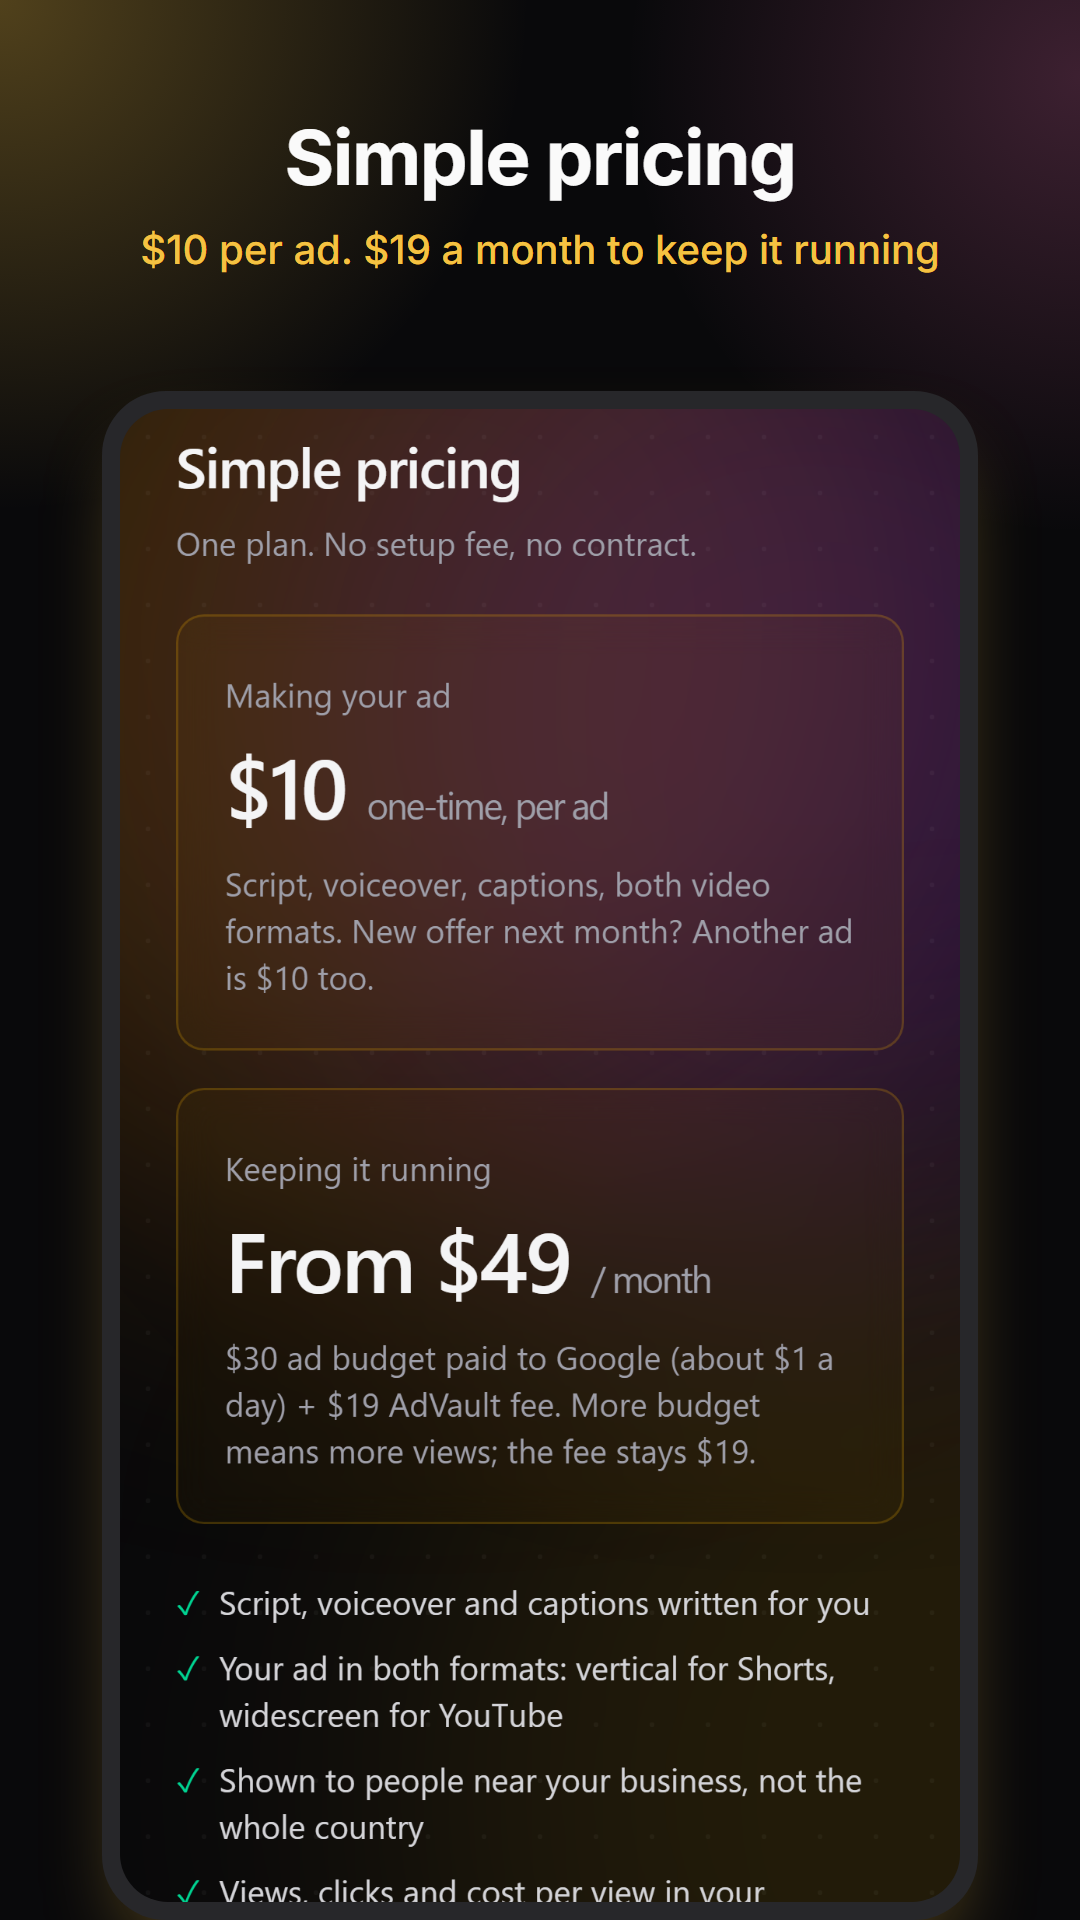
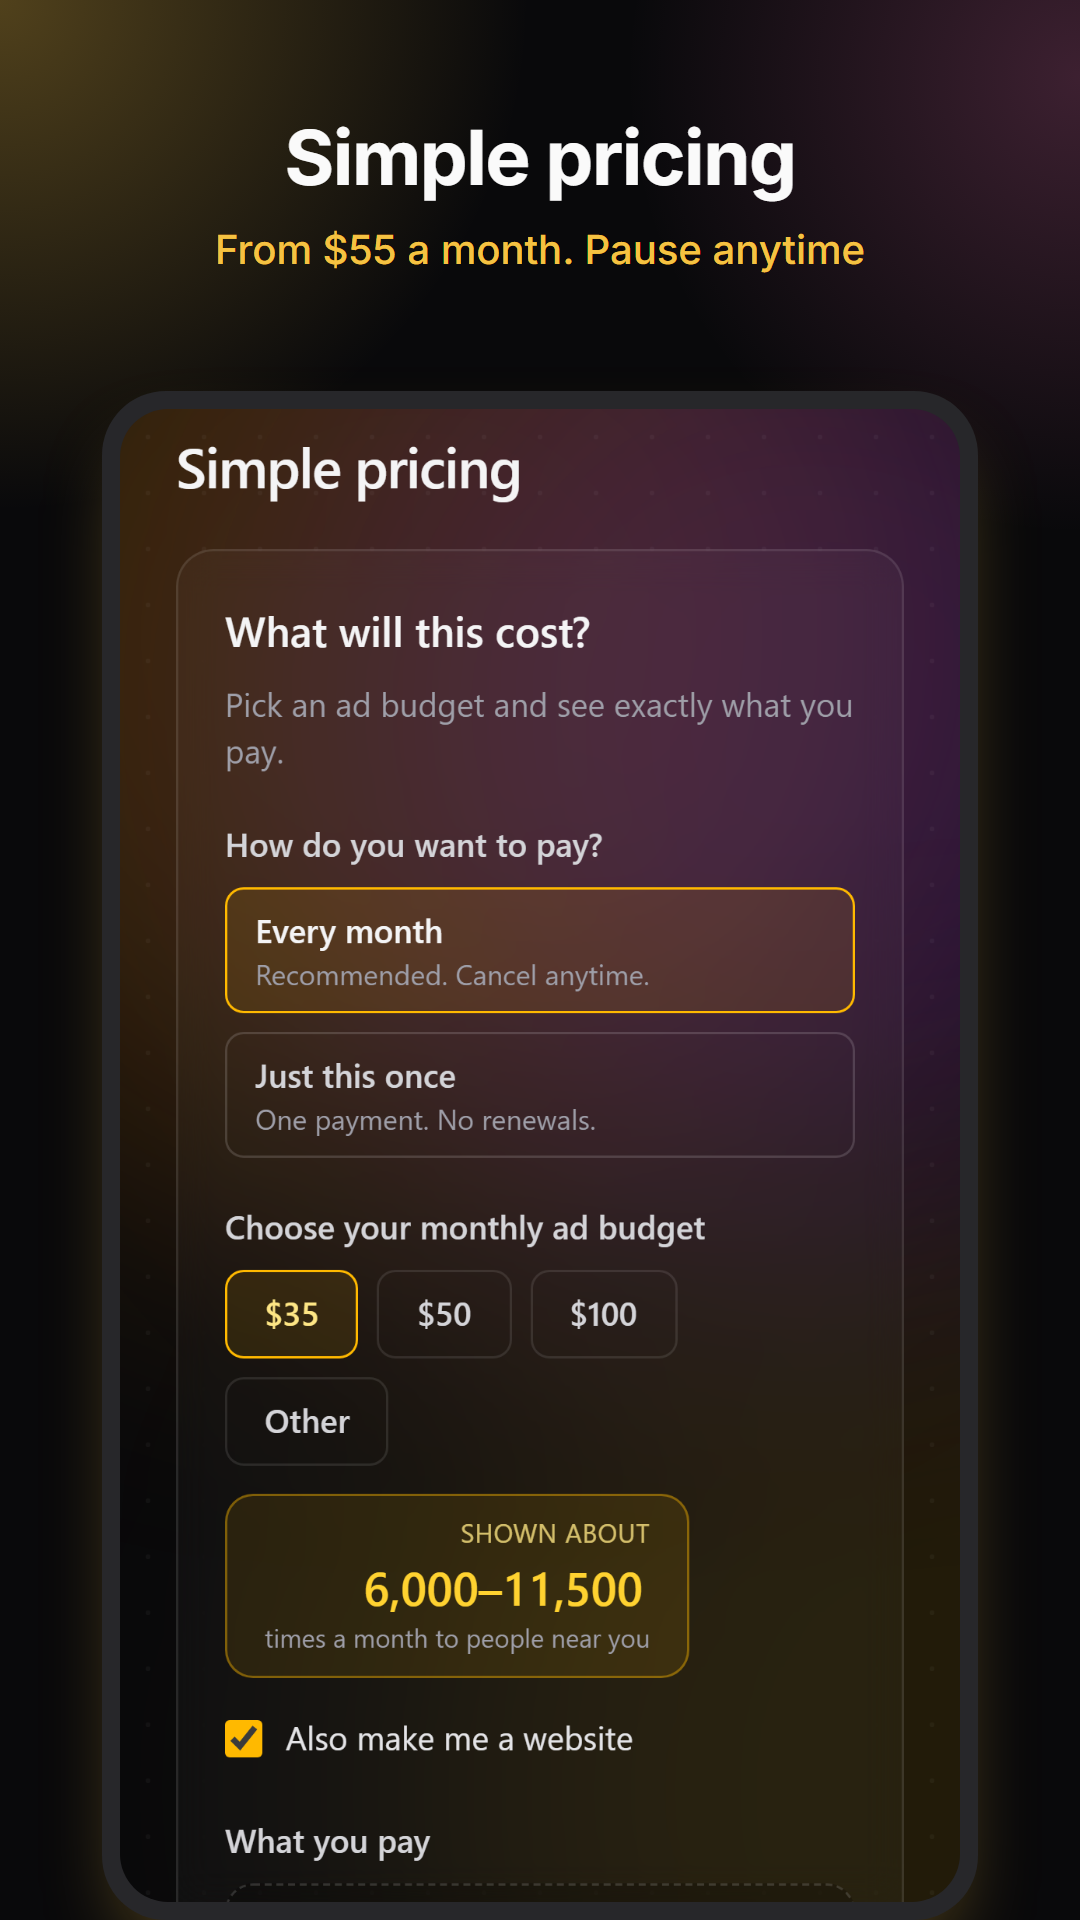
Play listing: current pricing + fresh screenshots (#184)
* Play listing: current pricing (from $55/month), times shown, advault@ contact; fresh screenshots

* Play listing: drop the own-video upload line (paused for customers)

* Play store icon: AdVault by 3PandaLabs wordmark

---------

diff --git a/infra/play-store/listing.md b/infra/play-store/listing.md
@@ -1,6 +1,6 @@
 # Google Play listing: AdVault
 
-Package `com.threepandalabs.advault` · Developer: 3PandaLabs LLC (organization account) · Category: **Business** · Free to install · No ads in the app · No purchases through Google Play Billing. AdVault sells YouTube ads for local businesses ($10 per ad made, $19/month to keep it running, plus the customer's ad budget), paid by card through Stripe Checkout. US only. Google isn't requiring Play Billing for US users while the US court order stands (support.google.com/googleplay/android-developer/answer/15582165), and the ad itself runs on YouTube, outside the app. Answer the Play Console payments declaration to match.
+Package `com.threepandalabs.advault` · Developer: 3PandaLabs LLC (organization account) · Category: **Business** · Free to install · No ads in the app · No purchases through Google Play Billing. AdVault sells YouTube ads for local businesses (from $55/month: $20 plan + the customer's ad budget from $35; $10 per new ad; or a one-off ad with no plan), paid by card through Stripe Checkout. US only. Google isn't requiring Play Billing for US users while the US court order stands (support.google.com/googleplay/android-developer/answer/15582165), and the ad itself runs on YouTube, outside the app. Answer the Play Console payments declaration to match.
 
 ## App name (30)
 AdVault by 3PandaLabs
@@ -11,18 +11,18 @@ YouTube and Shorts ads for your local business, made from your own photos.
 ## Full description (4000)
 Get your local business on YouTube without hiring an agency or learning Google Ads.
 
-Upload a few photos of your shop, your team or your work, or snap them right in the app. AdVault turns them into a vertical Shorts ad and a widescreen YouTube ad, with a script written for your kind of business. Pick the area around you, set a daily budget, and we run the ad on YouTube for people nearby.
+Upload a few photos of your shop, your team or your work, or snap them right in the app. AdVault turns them into a vertical Shorts ad and a widescreen YouTube ad, with a script written for your kind of business. Pick the area around you, set a monthly budget, and we run the ad on YouTube for people nearby.
 
 HOW IT WORKS
 • Add photos from your gallery or take them with your camera.
 • We write the script and make the video, in both Shorts (9:16) and YouTube (16:9) shapes.
-• Choose where your customers are and how much to spend a day.
-• We launch it on YouTube and keep it running. You see views, clicks and spend in the app.
-• Already have a video? Upload it instead, free. We review it before it goes live.
+• Choose where your customers are and how much to spend a month.
+• We launch it on YouTube and keep it running. You see times shown, clicks and spend in the app.
 
 SIMPLE PRICING
-• $10 for each ad we make.
-• $19 a month to keep it running, plus your own ad budget, which goes to Google.
+• From $55 a month to keep your ad running: $20 for AdVault plus your ad budget (from $35), which goes to Google.
+• $10 for each new ad we make.
+• Or run an ad just once, with no monthly plan.
 • No contract. Cancel any time.
 
 Made for plumbers, salons, dentists, realtors, restaurants and every local business that wants to be seen by the people around it.
@@ -32,13 +32,13 @@ Delete your account any time from Settings.
 Made by 3PandaLabs.
 
 ## Contact
-- Email: support@3pandalabs.com
+- Email: advault@3pandalabs.com (alias of the public 3pandas@ inbox)
 - Website: https://advault.3pandalabs.com
 - Privacy policy: https://advault.3pandalabs.com/privacy
 - Account deletion URL: https://advault.3pandalabs.com/privacy#delete-account (public; says Settings → Delete account in the app or on the web, or email privacy@3pandalabs.com for people who can't sign in)
 
 ## Graphics (infra/play-store/)
-- `graphics/icon-512.png`: hi-res icon (512×512, opaque)
+- `graphics/play-icon-512.png`: the Play store icon in use since 2026-11-22 ("AdVault by 3PandaLabs" wordmark, same as the Facebook/LinkedIn profile picture, from brand/meta-kit/advault-profile.png). `graphics/icon-512.png` (the "A" mark) is still the phone launcher icon inside the app.
 - `graphics/feature-graphic.png`: 1024×500
 - Phone screenshots: 2–8, 1080×1920. See README.md.
 
